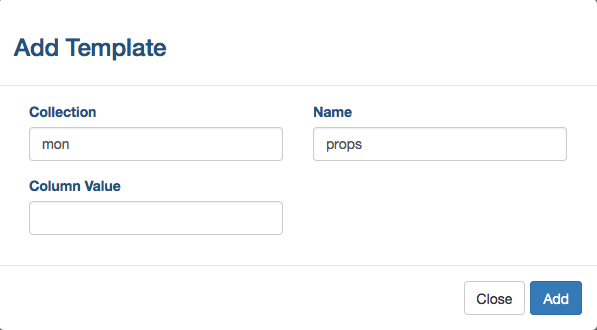
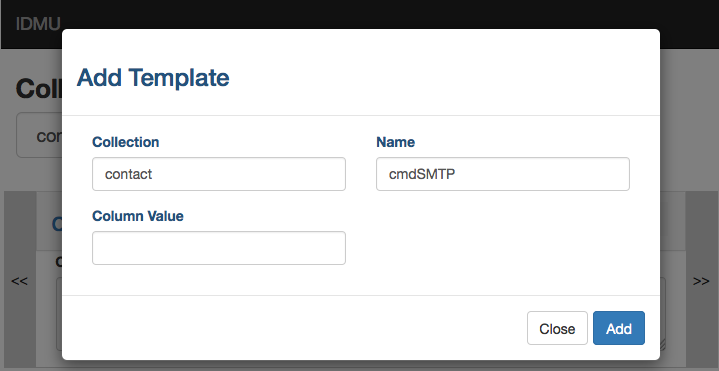
doc

diff --git a/idmu-editor/src/main/node/docs/howto.md b/idmu-editor/src/main/node/docs/howto.md
@@ -26,13 +26,19 @@
 <a name="navigate_templates"/>
 ## Navigate Between Templates
 
-After a collection is selected templates in the collection can be viewed by
+After a collection is selected, templates in the collection can be viewed by
 clicking on the Left/Right bar of the template view.
 
 ![Template Navigation](https://github.com/FlatBallFlyer/IBM-Data-Merge-Utility/blob/post-integ/idmu-editor/src/main/node/docs/screen-shots/left-right-nav.png)
 
 <a name="add_template"/>
 ## Add Template
+
+To add a template click on the 'Add' button available on the title bar of a template. A dialog
+box will be presented to get the collection, name of template, and columnValue if any. By clicking
+on the 'Add' button on the dialog a new template will be created according to the spec.
+
+![Add Template](https://github.com/FlatBallFlyer/IBM-Data-Merge-Utility/blob/post-integ/idmu-editor/src/main/node/docs/screen-shots/add-template.png)
 
 <a name="remove_template"/>
 ## Remove Template
